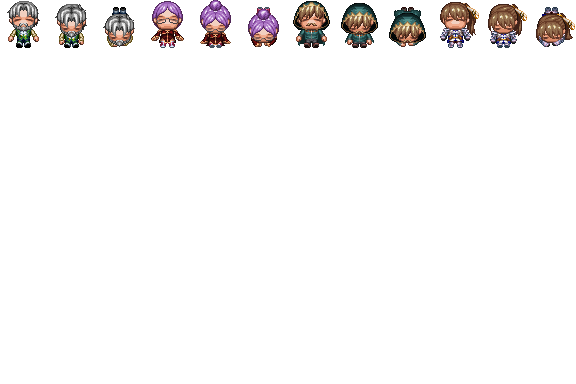
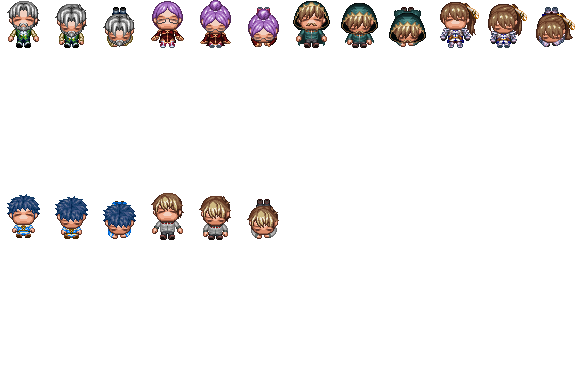
Spare and Cotter, generated: Gen_People14 4 and 5; Mrs Cotterill's art
Spare's SF_People1 0 had no side-view battler, which blocked F1, so at
Mike's word he is redrawn whole with the generator - the same lad, blue-black
hair and pale blue - and his face, sprite and battler match. Cotter's
SF_Actor2 7 read as a woman; he is Rivet's brown hair and white work jacket,
older. Mike's Mrs Cotterill goes in img/sv_enemies. F1 is unblocked.

Claude-Session: https://claude.ai/code/session_01DT7LL7HdDHkfFQ7pwiGzCu

Changed region(s): [[0.0, 0.5, 0.5, 0.625]]

diff --git a/build/story.py b/build/story.py
@@ -102,7 +102,7 @@ FACES = {
     "Mrs Tunnicliffe": ("SF_People1", 7),      # white hair, spectacles, scarf
     "Mrs Cotterill": ("SF_People1", 5),        # dark braid, unbothered
     "Mr Cotterill": ("SF_People1", 4),         # moustache, work jacket
-    "Spare": ("SF_People1", 0),                # a lad of nine, blue shirt
+    "Spare": ("Gen_People14", 4),              # a lad of nine, blue shirt
     "Sowerby": ("SF_People1", 6),              # knit cap, white beard
     "Nib": ("SF_People1", 1),                  # ponytail, red cardigan
     "Mr Kell": ("SF_People1", 2),              # black hair, blue jacket
@@ -400,9 +400,10 @@ FACES = {
     # the Bell's other two judges and the Company's other Warden speak with no
     # portrait. **"Mr Tibbs" is not "Tibb"** (Nether Sopping's, `People1` 0),
     # which a prefix grep finds first, and nobody else in the game speaks as
-    # "The Mayor". Cotter Cotterill shares `SF_Actor2` 7, which
-    # nothing had used: brown hair and a white work jacket, which is his
-    # brother Rivet's look (`SF_Actor1` 0) four years on, and meant to be.
+    # "The Mayor". Cotter Cotterill was `SF_Actor2` 7, which read as a
+    # woman; he is generated now, `Gen_People14` 5 below: brown hair and a
+    # white work jacket, his brother Rivet's look (`SF_Actor1` 0) four years
+    # on, and meant to be.
     "The Mayor": ("Gen_People6", 0),
     "Prime Warden": ("Gen_People6", 1),
     "Mr Tibbs": ("Gen_People6", 2),
@@ -435,7 +436,8 @@ FACES = {
     # ROL-5's understudy (QUESTS.md E17), sixteen, generated.
     "Maud": ("Gen_People14", 3),
     "Miss Fettle": ("Gen_People6", 4),
-    "Cotter": ("SF_Actor2", 7),
+    # Cotter, generated: SF_Actor2 7 read as a woman.
+    "Cotter": ("Gen_People14", 5),
 }
 
 

diff --git a/build/art.py b/build/art.py
@@ -307,6 +307,13 @@ SHEETS = {
         (1, "ambrosine-quill.json"),    # PIP-1: the Authorised Version
         (2, "cobb-lorrimer.json"),      # NIX-3: steals things, and says so
         (3, "maud-penhallow.json"),     # ROL-5: the understudy, sixteen
+        # Two Cotterills off the stock sheets, at Mike's request. Spare's
+        # `SF_People1` 0 has no side-view battler and F1 needs one, so he is
+        # redrawn whole - the same lad, blue-black hair, pale blue - and his
+        # face, sprite and battler match. Cotter's `SF_Actor2` 7 read as a
+        # woman; he is Rivet's brown hair and white work jacket, older.
+        (4, "spare-cotterill.json"),    # F1: aged nine, a bag packed
+        (5, "cotter-cotterill.json"),   # the Iron Company's gate, Saturdays
     ],
 }
 

diff --git a/build/dunnage.py b/build/dunnage.py
@@ -545,7 +545,7 @@ def town_events():
     # 12: Cotter, at the Iron Company's gate.
     evs.append(q_hob.owned("cotter", _person(                      # HOB-1
         12, "Cotter", COTTER,
-        R.image("SF_Actor2", 7, direction=2), *cotter_pages())))
+        R.image(*S.FACES["Cotter"], direction=2), *cotter_pages())))
     # 13: Mrs Poskitt, on the square.
     evs.append(_person(13, "Mrs Poskitt", POSKITT,
                        R.image(*S.FACES["Mrs Poskitt"], direction=2), *poskitt_pages()))

diff --git a/AUDIT.md b/AUDIT.md
@@ -867,8 +867,8 @@ label item 1 calls "deliberately unseen" - which of the two is Mike's call.
 | **The Wrong Dragon** | F | a new face, 144x144, `FACES["Somebody Large"]`; seven windows, Map 8 ev53, its cave by the water - no map of its own yet (ALD-6), no sprite. **Mike will supply a silhouette of a dragon**, which is right: every line it has is spoken in the dark of the cave | a dragon-shaped silhouette - enormous, in an armchair among books, a blanket over what you think are its knees | detail - "a dragon in the sense that the map says so". **If ALD-6 or any later scene shows it in the light, a clearer image goes on this list then** |
 | **The Duck** | F | not needed now: it never speaks. A face only if a quest gives it lines | an honorary Fellow of the Collegium: four hit points, a medal on a ribbon | |
 | **Duchess** | F | not needed now: she never speaks - ALD-4 (`QUESTS.md` B2) made the reunion wordless. A face only if a quest gives her lines; her sprite is `Vehicle` 4 | a grey mare in harness, effectively a partner | |
-| **Mr Dray** (B3) | F | real enemy art for `img/sv_enemies/Septimus_Dray.png`, one still image facing right, replacing `art.py`'s stand-in (it is never overwritten once real art is there). Enemy 41, troop 41, Map 65 | his generated face and sprite, `Gen_People12` 7: grey hair and beard, brown coat - and a serpent, the S-shaped bass horn | a modern instrument |
-| **Miss Moon** (B3) | F | real enemy art for `img/sv_enemies/Lettice_Moon.png`, the same way. Enemy 42 | `Gen_People13` 0: long black hair, black dress, a sheaf of verses, a handkerchief | cheerfulness |
+| **Mr Dray** (B3) | F | **Delivered 5 Oct 2026.** Real enemy art for `img/sv_enemies/Septimus_Dray.png`, one still image facing right, replacing `art.py`'s stand-in (it is never overwritten once real art is there). Enemy 41, troop 41, Map 65 | his generated face and sprite, `Gen_People12` 7: grey hair and beard, brown coat - and a serpent, the S-shaped bass horn | a modern instrument |
+| **Miss Moon** (B3) | F | **Delivered 5 Oct 2026** (redrawn to Mr Dray's scale). Real enemy art for `img/sv_enemies/Lettice_Moon.png`, the same way. Enemy 42 | `Gen_People13` 0: long black hair, black dress, a sheaf of verses, a handkerchief | cheerfulness |
 
 Installing a supplied face: a sheet of its own in `img/faces/` (8 cells of
 144x144, or one), `story.FACES` pointed at it, and - for a speaker with a
@@ -909,8 +909,8 @@ step moves the row into the table above. Spare's two are not provisional.
 
 | who | P/F | goes | must show | must not |
 | --- | --- | --- | --- | --- |
-| **Spare** (F1) | F | a side-view battler, `img/sv_actors/`, 576x384, 9x6 cells of 64x64 - `SPARE.md` 6. **Blocks F1**: `validate.py` fails a side-view actor without one | the lad on `SF_People1` 0: blue-black hair, brown eyes, blue jacket over a pale blue shirt | an adult |
-| **Mrs Cotterill** (F1) | F | an enemy image, `img/sv_enemies/` and `img/enemies/`, facing right, like the stock enemies (the party is on the right) - `SPARE.md` 6 | `SF_People1` 5: long dark green-black side braid, mustard cardigan, expecting in the spring, unmovable | anger |
+| **Spare** (F1) | F | **Done 5 Oct 2026: generated whole instead**, `Gen_People14` 4, battler `Gen_People14_5`. Was: a side-view battler, `img/sv_actors/`, 576x384, 9x6 cells of 64x64 - `SPARE.md` 6. **Blocks F1**: `validate.py` fails a side-view actor without one | the lad on `SF_People1` 0: blue-black hair, brown eyes, blue jacket over a pale blue shirt | an adult |
+| **Mrs Cotterill** (F1) | F | **Delivered 5 Oct 2026**, `img/sv_enemies/Mrs_Cotterill.png`. Was: an enemy image, `img/sv_enemies/` and `img/enemies/`, facing right, like the stock enemies (the party is on the right) - `SPARE.md` 6 | `SF_People1` 5: long dark green-black side braid, mustard cardigan, expecting in the spring, unmovable | anger |
 | **The Duck** (C3, C4) | F | the row above, if it speaks as a reviewer or a Fellow | | |
 | **The Wrong Dragon, lit** (E8) | F | **answered, 2 Oct 2026: no new image.** ALD-6 lights the lamp and the narration shows the books, a blanket with ducks on it and a pair of spectacles the size of cartwheels, and declines the rest; its face stays the silhouette (`Supplied` 2), so what it is stays closed | | |
 | **Enemy art** (C4, E7, E18) | F | eleven type specimens, the vigil, Roland's thing - stock monster art first; a generated person gets `art.py`'s stand-in and a row in the table above, as B3's two rival acts have (its hecklers are the stock `Sailor`) | | |

diff --git a/QUESTS.md b/QUESTS.md
@@ -456,7 +456,7 @@ Order within E is cheapest first; reorder freely.
 first. **Blocked on art** (section 1): his side-view battler and Mrs
 Cotterill's enemy image. Build everything else, and ask Mike for the two
 images when this step is reached rather than at the very end, because
-`validate.py` fails without the battler. **F2. SPA-1 The Letters**, **F3.
+`validate.py` fails without the battler. **Unblocked, 5 Oct 2026.** At Mike's word Spare was redrawn whole with the generator, `Gen_People14` 4 (`build/characters/spare-cotterill.json`): face, sprite and battler `Gen_People14_5` all match, and `FACES["Spare"]` points there. Mike supplied `img/sv_enemies/Mrs_Cotterill.png`. Both images are in. **F2. SPA-1 The Letters**, **F3.
 SPA-3 The Tenth**, **F4. SPA-2 Ninety Tubes** (a confined map, 66+).
 
 ### Part G - the ending, last
@@ -3483,6 +3483,11 @@ Both are stock-face characters (`SF_People1`), so the generator cannot draw a
 match, and `validate.py` fails a side-view actor with no battler. Build
 everything else and ask Mike for the two images when the step is reached,
 not at the end.
+
+**Unblocked, 5 Oct 2026.** At Mike's word Spare was redrawn whole with the
+generator, `Gen_People14` 4 (`build/characters/spare-cotterill.json`): face,
+sprite and battler `Gen_People14_5` all match, and `FACES["Spare"]` points
+there. Mike supplied `img/sv_enemies/Mrs_Cotterill.png`. Both images are in.
 
 Read section 0, the Part F entry in section 2 and the newest Done paragraphs
 (E16-E18 and the rerun after them), once, at the start; then `SPARE.md`

diff --git a/SPARE.md b/SPARE.md
@@ -437,6 +437,12 @@ tuned two expansions ago. Run `balance.py` before a stat is committed.
 
 ## 6. The art, and it is a blocker
 
+**Unblocked, 5 Oct 2026.** At Mike's word he was redrawn whole with the
+generator, `Gen_People14` 4 (`build/characters/spare-cotterill.json`): face,
+sprite and battler `Gen_People14_5` all match, and `FACES["Spare"]` points
+there. Mike supplied `img/sv_enemies/Mrs_Cotterill.png`. Both images are in.
+
+
 `validate.py` line 86: a side-view game with an actor whose `battlerName` is not
 in `img/sv_actors/` is a **hard validation failure**, not a cosmetic one.
 
